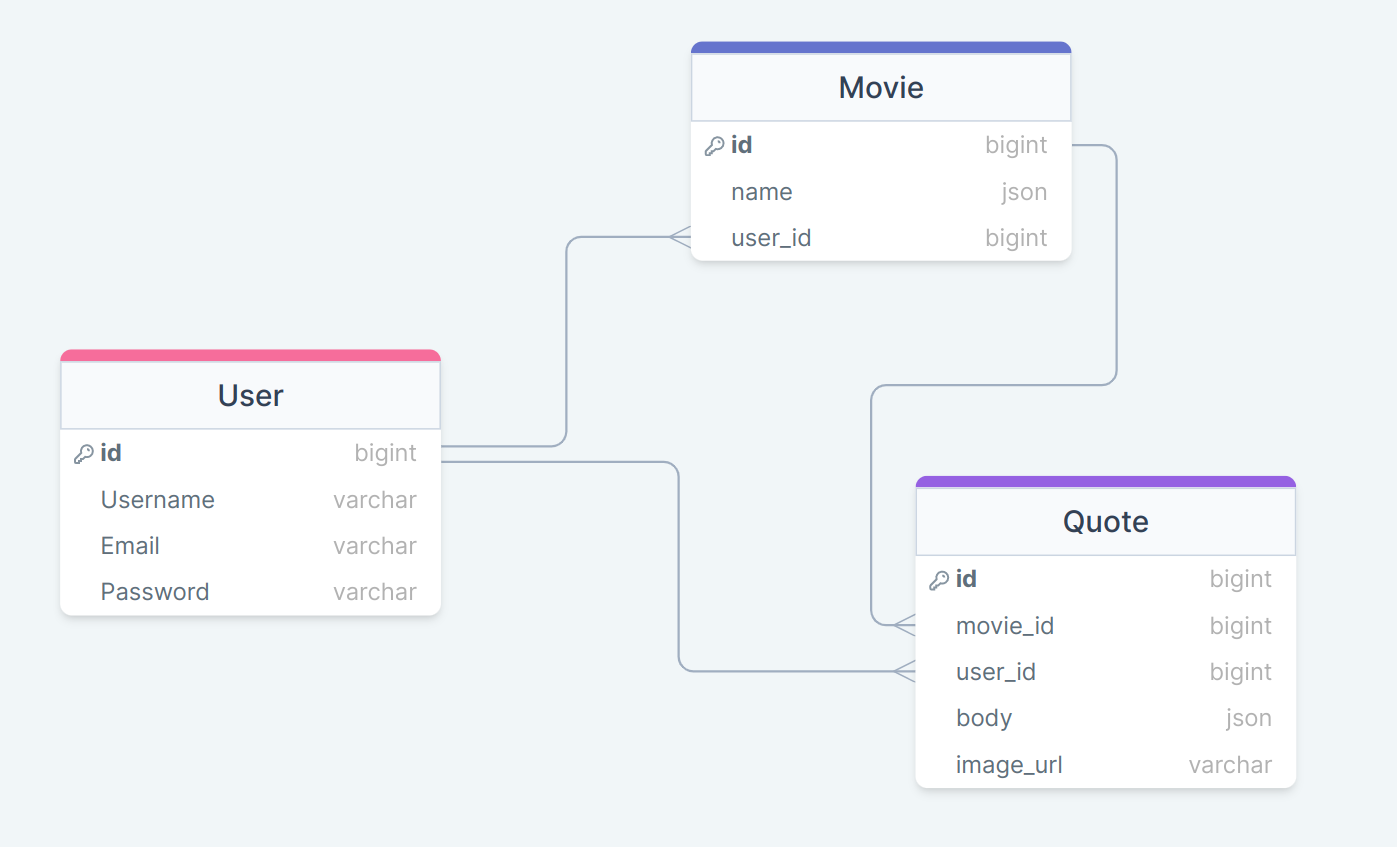
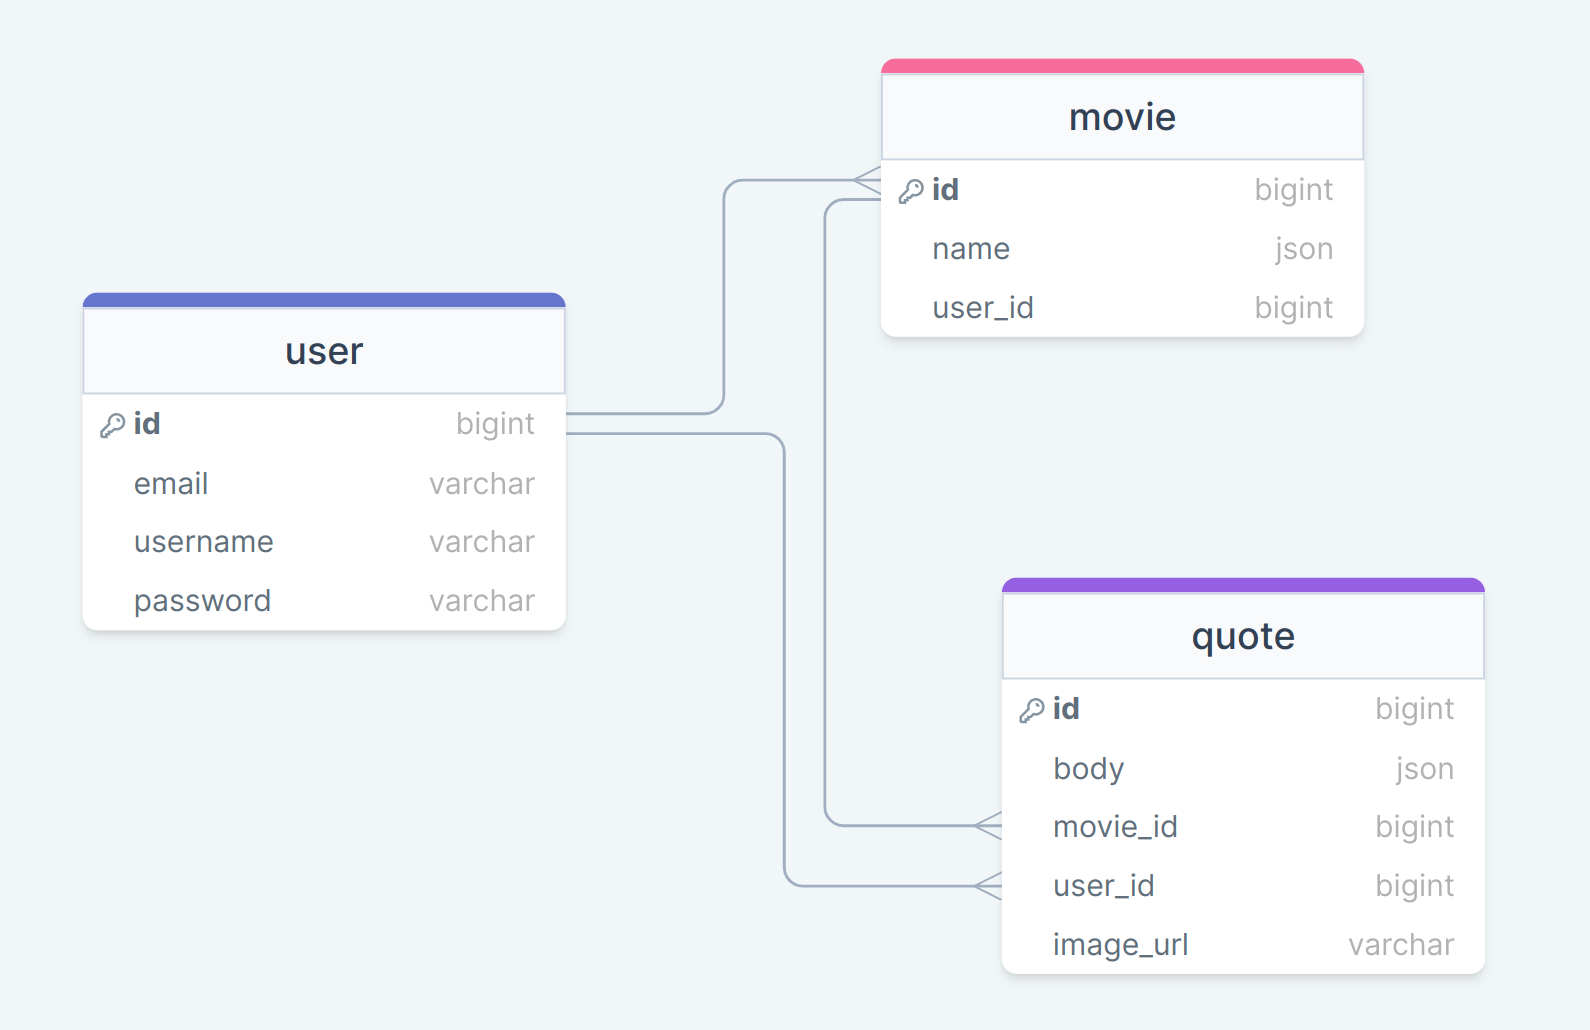
fix: laravels version, lowercase on db structure

diff --git a/README.md b/README.md
@@ -30,7 +30,7 @@ This **Movie Quotes** app is the best destination for movie enthusiasts and quot
 
 ### Tech Stack
 
--   <img src="readme/assets/laravel.png" height="18" style="position: relative; top: 4px" /> [Laravel@6.x](https://laravel.com/docs/6.x) - back-end framework
+-   <img src="readme/assets/laravel.png" height="18" style="position: relative; top: 4px" /> [Laravel@10.x](https://laravel.com/docs/10.x) - back-end framework
 
 -   <img src="readme/assets/spatie.png" height="19" style="position: relative; top: 4px" /> [Spatie Translatable](https://github.com/spatie/laravel-translatable) - package for translation
 
